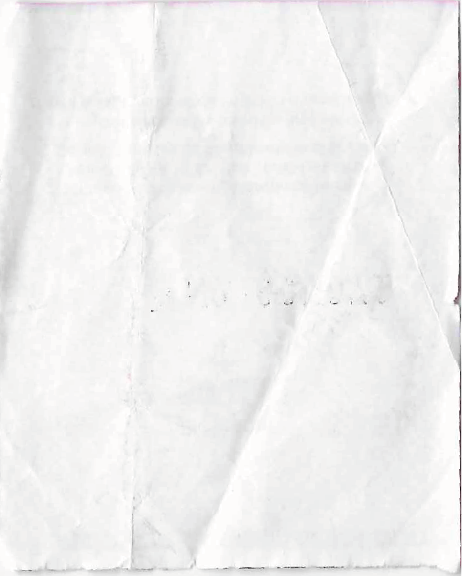
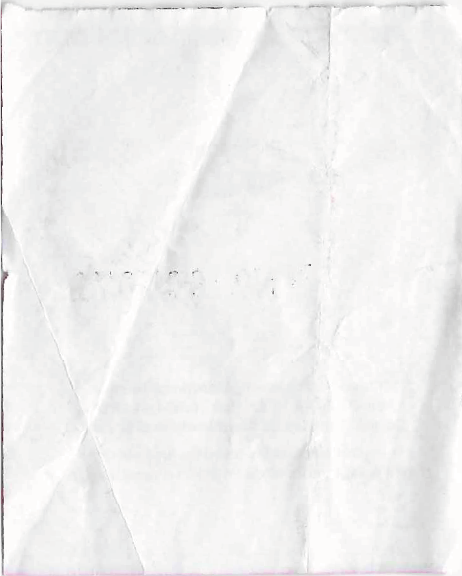
9 cards. boom! you lookin for this ? -don cheadle

diff --git a/src/CardList.tsx b/src/CardList.tsx
@@ -25,13 +25,17 @@ const CARD_DEFINITIONS: CardDefinition[] = [
   { id: "epikceramique", label: "Epik Ceramique", description: "custom made pottery, by stephanie verchère.", tags: ["craftsmanship", "art"] },
   { id: "florentin", label: "Florentin", description: "great italian restaurant in plan-de-campagne, very generous portions.", tags: ["food"] },
   { id: "greenbagelcafe", label: "Green Bagel Cafe", description: "great bagel joint in aix-en-provence, serving soup on the side, sadly closed now.", tags: ["food"] },
+  { id: "glasseffect", label: "Glass Effect", description: "artisanal glasswork jewerly and sculptures.", tags: ["craftsmanship","art", "fashion"] },
   { id: "grosbao", label: "Gros Bao", description: "sticker from an amazing chinese restaurant chain, in marseille. i love gros bao", tags: ["food"] },
   { id: "highlandcowshop", label: "Highland Cow Shop", description: "a shop containing everything related to hairy highland cows, in edinburgh.", tags: ["shop"] },
   { id: "holo", label: "Holo bus card", description: "hawaiian bus card i was provided during a field trip to hawaii.", tags: ["transport"] },
+  { id: "hotelledaum", label: "Hotel de l'Aum", description: "hotel in paris 12.", tags: ["wellness"] },
   { id: "kingpins", label: "Kingpins", description: "reusable arcade pass for any kingpins in the uk.", tags: ["miscellaneous"] },
   { id: "ileagammes", label: "Île à Gammes", description: "thanks card that came with my tie accessory order from ile à gammes, great creator, check our her website.", tags: ["fashion"] },
   { id: "lacageauxfleurs", label: "La Cage aux Fleurs", description: "amazing restaurant in tain-l'hermitage i went to at a business seminar during my internship with miratlas. best white wine of my life.", tags: ["food"] },
   { id: "lacarteblanche", label: "La Carte Blanche", description: "restaurant in marseille.", tags: ["food"] },
+  { id: "laciteduchocolat", label: "La Cité du Chocolat", description: "ticket to valrhona's chocolate museum in tain-l'hermitage. i tried 100% cocoa chocolate there, it was awful.", tags: ["food","shop"] },
+  { id: "leffetfleur", label: "L'Effet Fleur", description: "flower shop in tain-l'hermitage.", tags: ["shop","art"] },
   { id: "lamaisondesfondues", label: "La Maison des Fondues", description: "fondue restaurant in aix-en-provence.", tags: ["food"] },
   { id: "lamidupain", label: "L'Ami du Pain", description: "bakery in calas.", tags: ["food"] },
   { id: "lapetiteferme", label: "La Petite Ferme", description: "amazing semi-gourmet restaurant in aix-en-provence. same card as côté cour, a gourmet restaurant by the same chef.", tags: ["food"] },
@@ -54,8 +58,10 @@ const CARD_DEFINITIONS: CardDefinition[] = [
   { id: "maisonbremond1830", label: "Maison Bremond 1830", description: "provencal gourmet food store.", tags: ["food", "shop"] },
   { id: "maisonjeandittalon", label: "Maison Jean Dit Talon", description: "bakery in arles.", tags: ["food"] },
   { id: "maisonmooks", label: "Maison Mooks", description: "japanese pastry shop in aix-en-provence ", tags: ["food"] },
+  { id: "mamanelly", label: "Mama Nelly", description: "african restaurant in marseille.", tags: ["food"] },
   { id: "marrakechmuseum", label: "Marrakech Museum", description: "ticket to the marrakech museum, in marrakech, by the omar benjelloun foundation.", tags: ["art"] },
   { id: "martharotten", label: "Martha Rotten", description: "very cool online alt/goth hand-made jewelry brand.", tags: ["craftsmanship","fashion"] },
+  { id: "meowcatscafe", label: "Meow Cats Cafe", description: "cat cafe in aix-en-provence, very cute cats.", tags: ["food","wellness"] },
   { id: "musiquenumero1", label: "Musique N°1", description: "music shop, selling instruments and other stuff, in plan-de-campagne.", tags: ["art", "shop"] },
   { id: "mo-mo", label: "Mö-Mö", description: "good restaurant in marrakech.", tags: ["food"] },
   { id: "myjewelledbox", label: "My Jewelled Box", description: "very beautiful and creative artisanal jewelry, seen at the royal mile market in edinburgh.", tags: ["craftsmanship", "fashion", "shop"] },
@@ -63,6 +69,7 @@ const CARD_DEFINITIONS: CardDefinition[] = [
   { id: "newrock", label: "New Rock", description: "card that came in the package of my very cool new rock boots.", tags: ["fashion"] },
   { id: "nino", label: "Nino", description: "italian restaurant in plan-de-campagne.", tags: ["food"] },
   { id: "noxkensington", label: "Nox Kensington", description: "kensington nox hotel, in london.", tags: ["wellness"] },
+  { id: "operecuisinedamour", label: "Opère Cuisine d'Amour", description: "good restaurant around aix-en-provence.", tags: ["food"] },
   { id: "petrarque&laure", label: "Pétrarque & Laure", description: "restaurant in fontaine-de-vaucluse.", tags: ["food"] },
   { id: "pizzalaboucaine", label: "Pizza la Boucaine", description: "pizza truck in bouc-bel-air.", tags: ["food"] },
   { id: "primapasta", label: "Prima Pasta", description: "italian pasta restaurant in aix-en-provence.", tags: ["food"] },
@@ -76,6 +83,8 @@ const CARD_DEFINITIONS: CardDefinition[] = [
   { id: "thewitchery", label: "The Witchery", description: "very cool and classy witchcraft shop in edinburgh.", tags: ["shop"] },
   { id: "uplandsroast", label: "Uplands Roast", description: "small cafe in edinburgh, they make the best hot chocolate i ever tried, with toasted marshmallows, cinnamon, etc.", tags: ["food"] },
   { id: "viviennewestwood", label: "Vivienne Westwood", description: "found in the bag of my vivienne westwood armor ring, which i bought in london.", tags: ["fashion", "shop"] },
+  { id: "wittchen", label: "Wittchen", description: "piece of cardboard found in my wittchen wallet i got for my birthday.", tags: ["fashion"] },
+  { id: "youfoundmeskullpanda", label: "You Found Me ! SKULLPANDA", description: "card that comes in skullpanda collection boxes.", tags: ["miscellaneous"] },
   { id: "yojisu", label: "Yojisu", description: "japanese restaurant around aix-en-provence.", tags: ["food"] },
     // { id: "cards", label: "card", description: "Q izgeg dolor zgeg", tags: ["miscellaneous"] },
 ];
